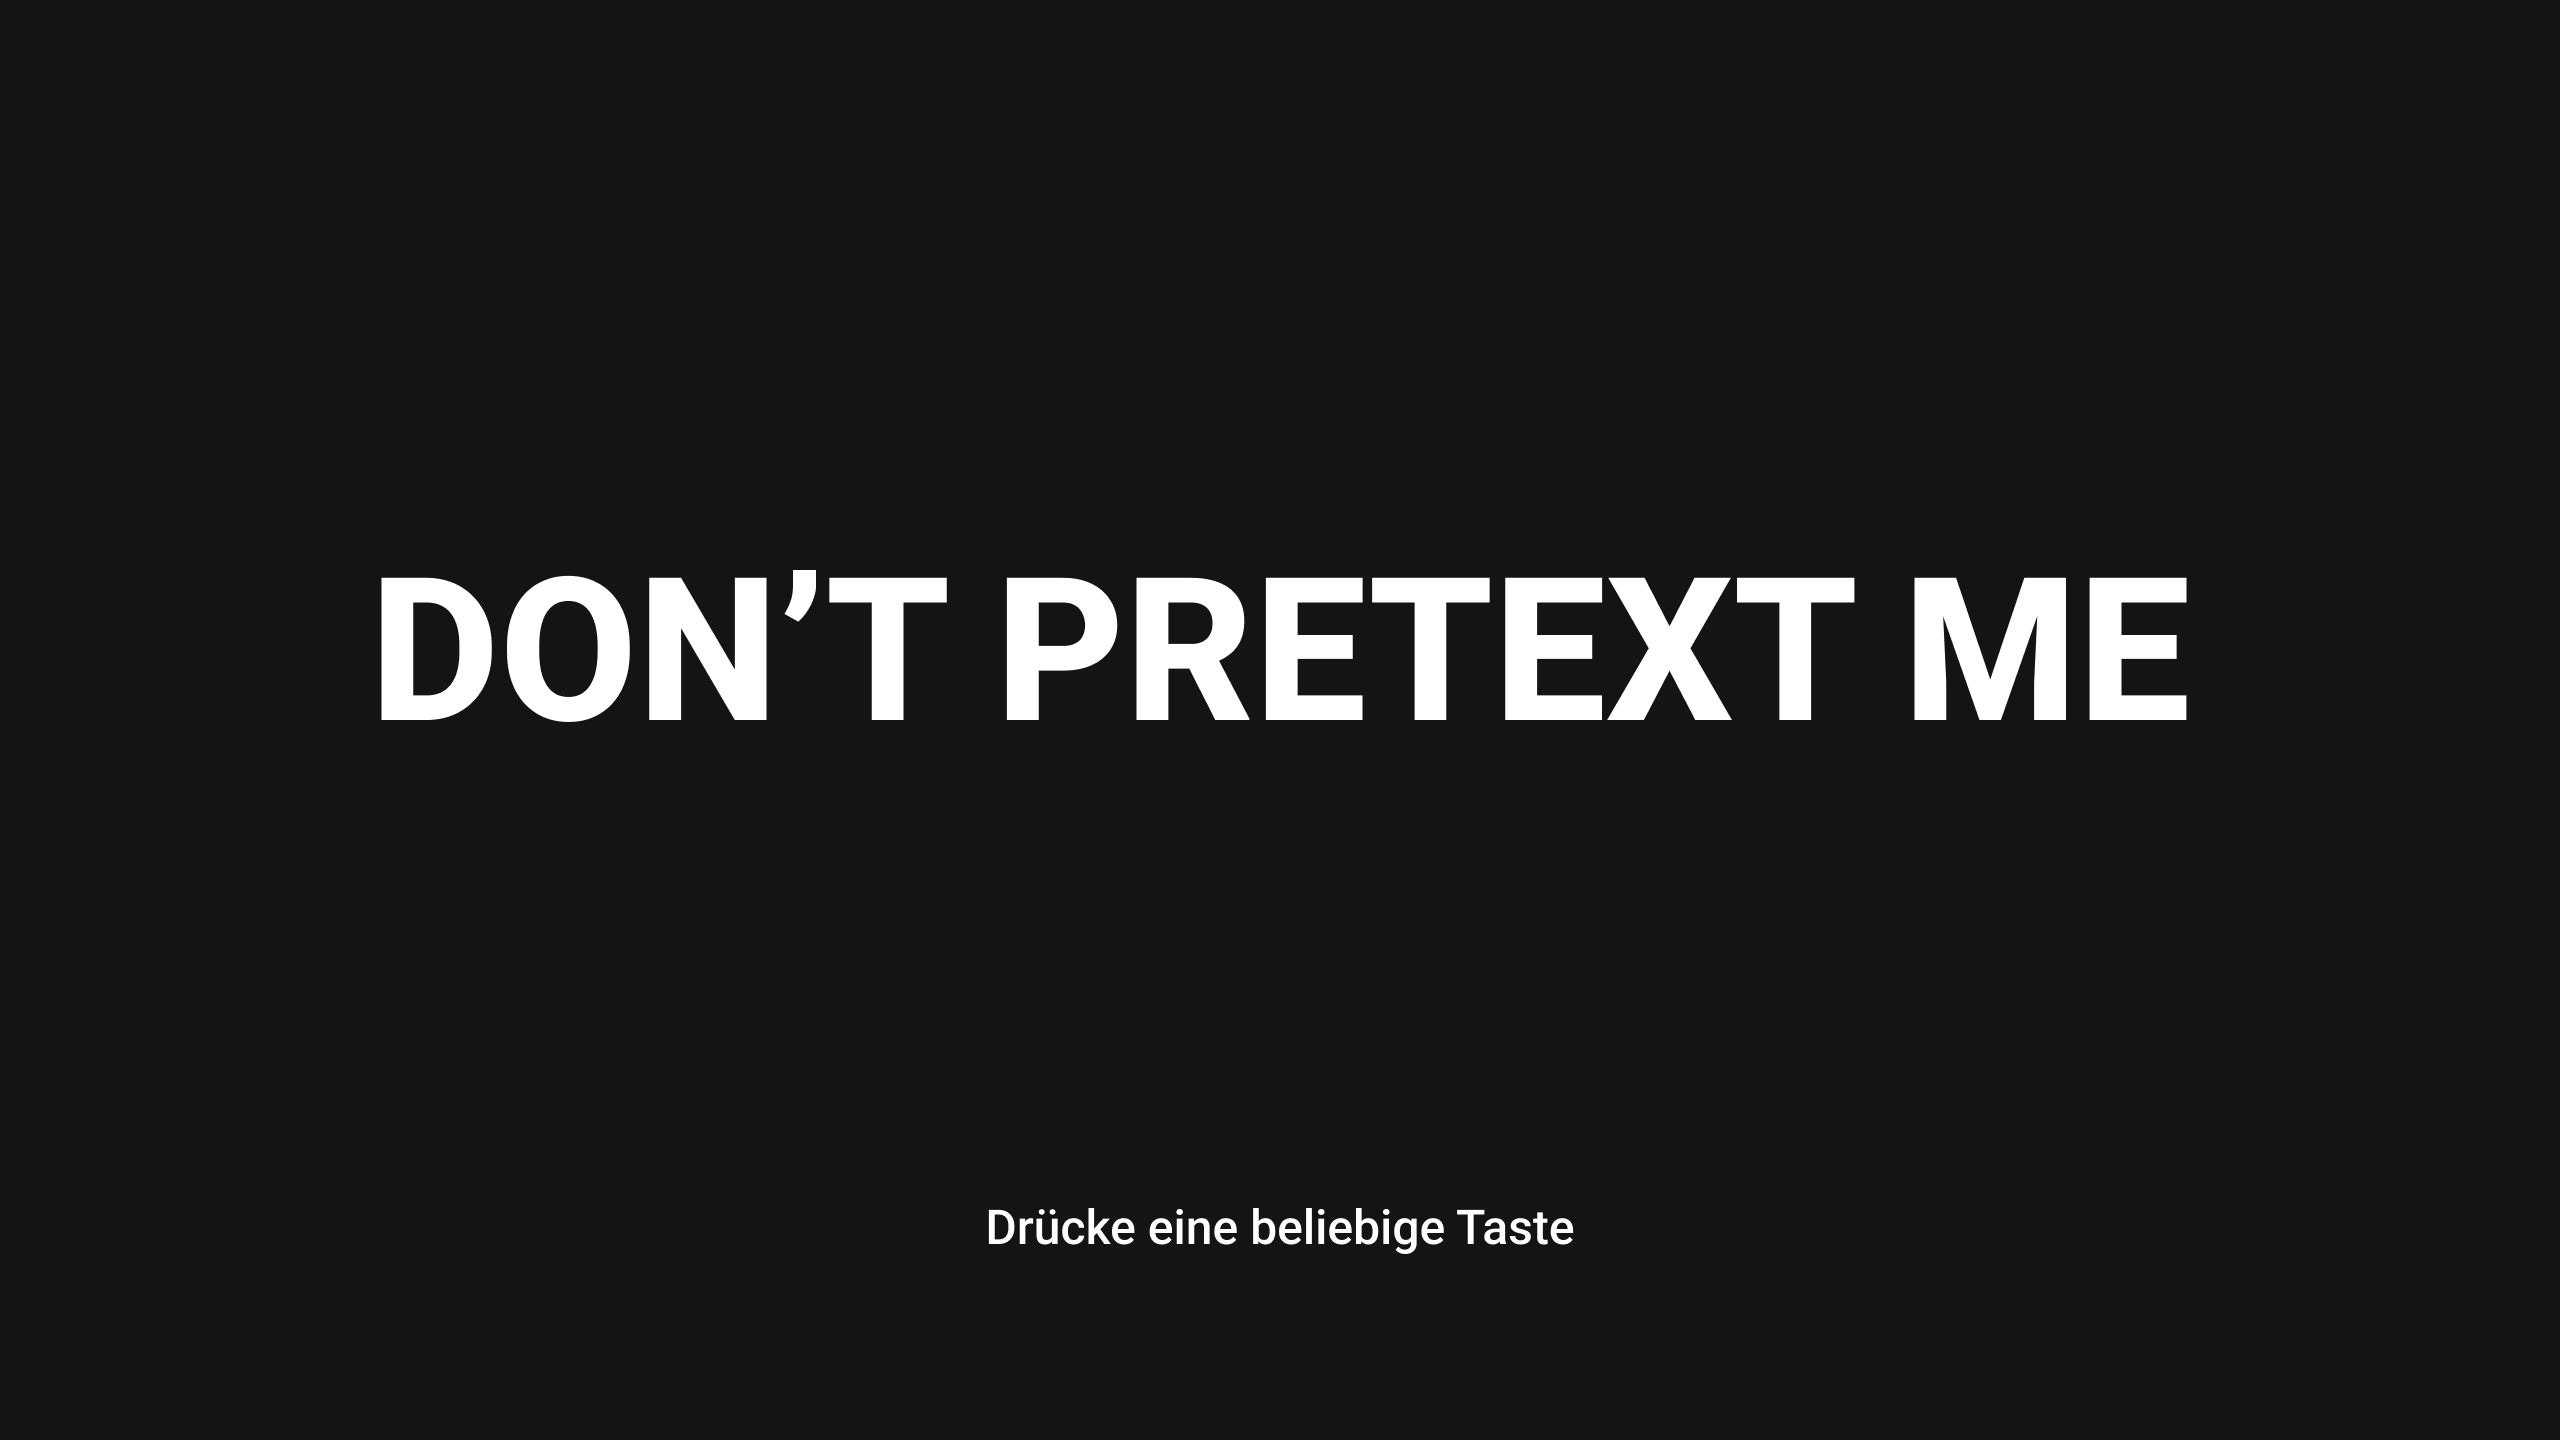
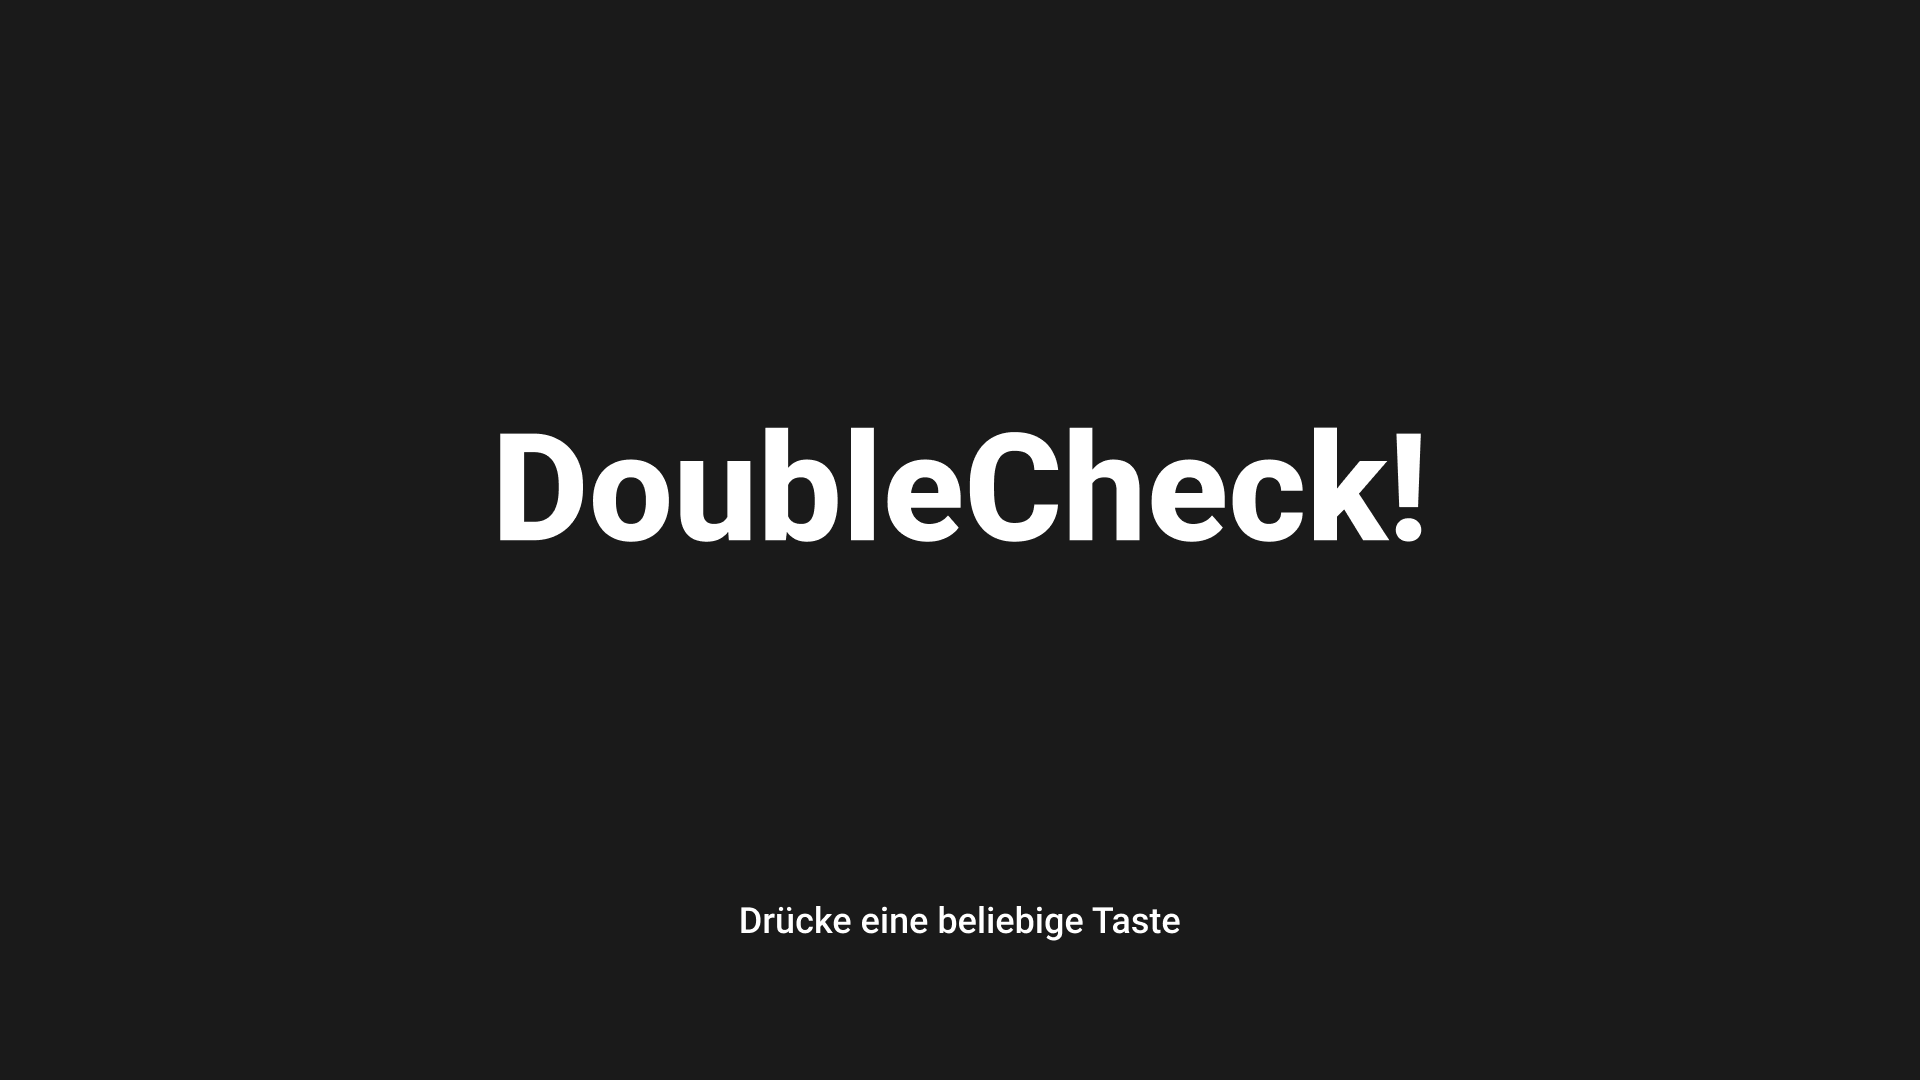
prototyp spielszene wird hinzugefügt

Changed region(s): [[0.125, 0.3972, 0.875, 0.5194]]

diff --git a/config.js b/config.js
@@ -30,7 +30,7 @@ var config = {
     // zoom: 1, // Größe des Canvas = Spielgröße * Zoom
     },
     autoRound: false,
-    scene: [ TitleScene, MenuScene, GameScene, DebriefingScene]
+    scene: [ TitleScene , GameScene, DebriefingScene]
 };
 
 var game = new Phaser.Game(config);

diff --git a/scenes/GameScene.js b/scenes/GameScene.js
@@ -10,7 +10,7 @@ class GameScene extends Phaser.Scene {
     }
      preload ()
     {   //Bilder und Assets laden
-        this.load.image('zones', 'assets/images/zones.png');
+        this.load.image('zones', 'assets/images/spielszene.png');
         //Ticket Daten laden
         this.load.json('ticketData', 'data/tickets.json'); 
         this.load.json('employees', 'data/employees.json');

diff --git a/index.html b/index.html
@@ -10,7 +10,6 @@
 
 <!-- Die Szenen müssen in der richtigen Reihenfolge sein -->
 <script type="text/javascript" src="scenes/TitleScene.js"></script>
-<script type="text/javascript" src="scenes/MenuScene.js"></script>
 <script type="text/javascript" src="scenes/GameScene.js"></script>
 <script type="text/javascript" src="scenes/DebriefingScene.js"></script>
 